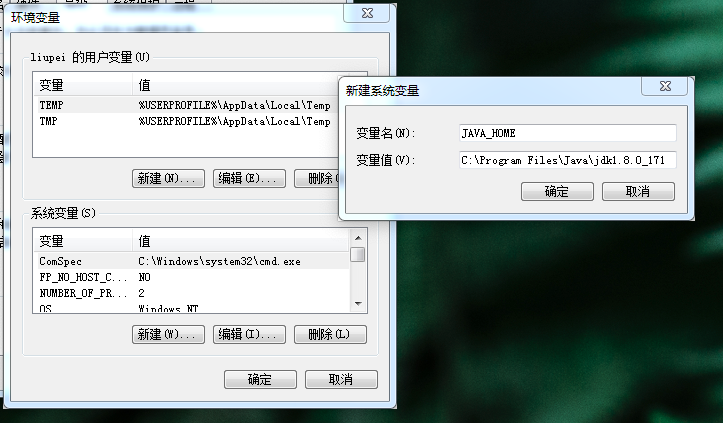
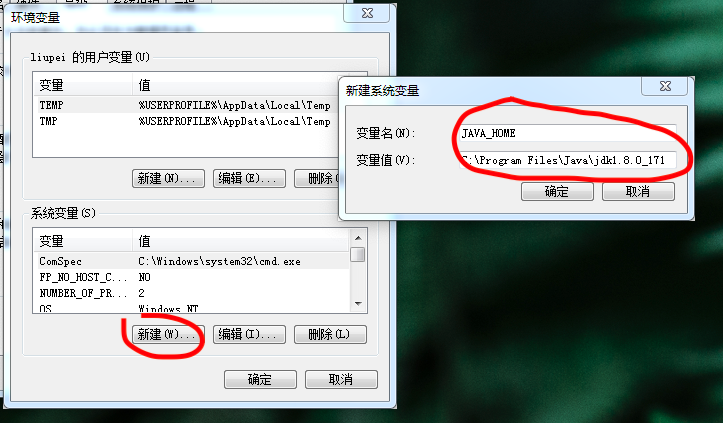
提交Md

diff --git a/win下配置macaca.md b/win下配置macaca.md
@@ -1,7 +1,7 @@
-# macacaDemo
-macaca 配置环境
+# win 下 配置 macaca 运行环境
 
 ## 目录
+
 1.Java环境
 2.Android环境
 3.配置Gradle
@@ -9,8 +9,56 @@ macaca 配置环境
 5.配置Macaca
 
 ### 一.配置Java环境
-    1. 安装soft目录下的jdk-8u171-windows-x64.exe文件
+##### 1.1 安装soft目录下的jdk-8u171-windows-x64.exe文件
     
+    
+步骤如图：
+![](https://raw.githubusercontent.com/liupeipro/macacaDemo/master/img/01-Java%E7%8E%AF%E5%A2%83/1.png)
+![](https://raw.githubusercontent.com/liupeipro/macacaDemo/master/img/01-Java%E7%8E%AF%E5%A2%83/2.png)
+![](https://raw.githubusercontent.com/liupeipro/macacaDemo/master/img/01-Java%E7%8E%AF%E5%A2%83/3.png)
+    
+##### 1.2 配置JAVA_HOME环境变量
+
+步骤如图：
+![](https://raw.githubusercontent.com/liupeipro/macacaDemo/master/img/01-Java%E7%8E%AF%E5%A2%83/4.png)
+![](https://raw.githubusercontent.com/liupeipro/macacaDemo/master/img/01-Java%E7%8E%AF%E5%A2%83/5.png)
+![](https://raw.githubusercontent.com/liupeipro/macacaDemo/master/img/01-Java%E7%8E%AF%E5%A2%83/6.png)
+![](https://raw.githubusercontent.com/liupeipro/macacaDemo/master/img/01-Java%E7%8E%AF%E5%A2%83/7.png)
+![](https://raw.githubusercontent.com/liupeipro/macacaDemo/master/img/01-Java%E7%8E%AF%E5%A2%83/8.png)
+ 
+### 二，配置Android环境
+##### 2.1 安装 AndroidStudio，位于 soft 目录下的android-studio-ide-183.5692245-windows.exe文件
+
+步骤如图：
+![](https://raw.githubusercontent.com/liupeipro/macacaDemo/master/img/02-Android%E7%8E%AF%E5%A2%83/1.png)
+![](https://raw.githubusercontent.com/liupeipro/macacaDemo/master/img/02-Android%E7%8E%AF%E5%A2%83/2.png)
+![](https://raw.githubusercontent.com/liupeipro/macacaDemo/master/img/02-Android%E7%8E%AF%E5%A2%83/3.png)
+![](https://raw.githubusercontent.com/liupeipro/macacaDemo/master/img/02-Android%E7%8E%AF%E5%A2%83/4.png)
+![](https://raw.githubusercontent.com/liupeipro/macacaDemo/master/img/02-Android%E7%8E%AF%E5%A2%83/5.png)
+![](https://raw.githubusercontent.com/liupeipro/macacaDemo/master/img/02-Android%E7%8E%AF%E5%A2%83/6.png)
+       
+### 三，配置 Node 环境
+##### 3.1 安装 AndroidStudio，位于 soft 目录下的node-v12.7.0-x64.msi文件
+
+步骤如图：
+![](https://raw.githubusercontent.com/liupeipro/macacaDemo/master/img/03-node%E7%8E%AF%E5%A2%83/1.png)
+![](https://raw.githubusercontent.com/liupeipro/macacaDemo/master/img/03-node%E7%8E%AF%E5%A2%83/2.png)
+![](https://raw.githubusercontent.com/liupeipro/macacaDemo/master/img/03-node%E7%8E%AF%E5%A2%83/3.png)
+![](https://raw.githubusercontent.com/liupeipro/macacaDemo/master/img/03-node%E7%8E%AF%E5%A2%83/4.png)
+![](https://raw.githubusercontent.com/liupeipro/macacaDemo/master/img/03-node%E7%8E%AF%E5%A2%83/5.png)
+![](https://raw.githubusercontent.com/liupeipro/macacaDemo/master/img/03-node%E7%8E%AF%E5%A2%83/6.png) 
+       
+### 四，配置Gradle环境
+##### 4.1 把soft目录下的gradle.zip解压放到**目录下，
+##### 4.2 配置gradle环境变量
+
+
+
+### 五，配置macaca环境
+
+
+### 六，demo测试
+
 
 ## 参考资料
 

diff --git a/线控实现方式汇总.md b/线控实现方式汇总.md
@@ -1,0 +1,67 @@
+# 线控实现方式汇总
+
+## 线控
+通过系统自动化控制集成，把100个手机操作界面直接映射到电脑显示器，实现一台电脑来控制100部手机操作。而电脑上每个手机操作界面的编号，对应相同编号的手机，实现一对一控制。
+    
+实现分为几个部分：
+
+    1. pc端操作软件。
+        屏幕实时投屏，从底层驱动获取屏幕信息，实现零延迟的60FPS高效传输。
+
+    2. adb底层传输
+        adb是电脑和手机的传输通道，群控系统的实现主要环节就在于adb的各种命令的应用。但正常的adb是无法完成所有的功能的，下载adb源码，修改优化后，编译成新的adb方才可行.
+
+    3. 手机端模拟点击
+        模拟点击实现这里我们使用的是uiautomator，或其他模拟点击库。
+
+    4. 手机端底层劫持
+        底层劫持的话主要依靠xposed框架，模拟定位，自动摇一摇等功能时都要用到底层劫持，比如为了减少执行的步骤，打开微信的时候直接跳到微信的某个页面，都会用到底层劫持
+
+
+    总结：市面上的群控软件都对底层有过改动，研究时间长。技术成熟，附加功能多。
+
+## 将要做的线控实现方式
+
+实现分为几个部分：
+
+    1. pc操作软件
+        使用Electron跨平台js开源库，实现pc端操作。
+        优点：技术新，跨平台(mac/linux/win)
+        缺点：与市面上其它群控软件开发的语言不一样。市面上多用c#开发。后期维护更新困难
+
+    2. adb
+        使用自带Android sdk 自带的 adb
+        优点：省事
+        缺点：不一定满足一台电脑拖100台手机的需求。需要修改adb定制源码。
+
+    3. macaca自动化测试开源库
+        pc配置macaca运行环境，通过写js脚本来执行手机端的模拟点击。
+        优点：省事，能实现功能
+        缺点：其它群控软件不是用macaca来做的。是自己搞的一套来模拟手机点击的。有定制的rom，修改过android源码、底层。
+
+    4. 手机端底层劫持
+        基本都是基于 xposed 框架来做的。
+        缺点：需要对底层知识有深入了解。对xposed框架要熟悉。
+
+
+    总结：使用基数相对其它群控软件来说，技术新，研究时间短，技术不成熟，附加功能少。
+    
+## 建议
+
+    重新开发难度大，后期维护更新成本高。
+
+## 参考
+
+搜集的其它有官网的群控软件
+
+[http://www.xiake.cn](http://www.xiake.cn)
+[http://qk.taodongjia123.com/miji.html](http://qk.taodongjia123.com/miji.html)
+[http://www.chengshuovip.cn](http://www.chengshuovip.cn)
+
+
+微信群控系统：
+
+[https://www.jianshu.com/p/03b6ba44af1e](https://www.jianshu.com/p/03b6ba44af1e)
+
+    
+
